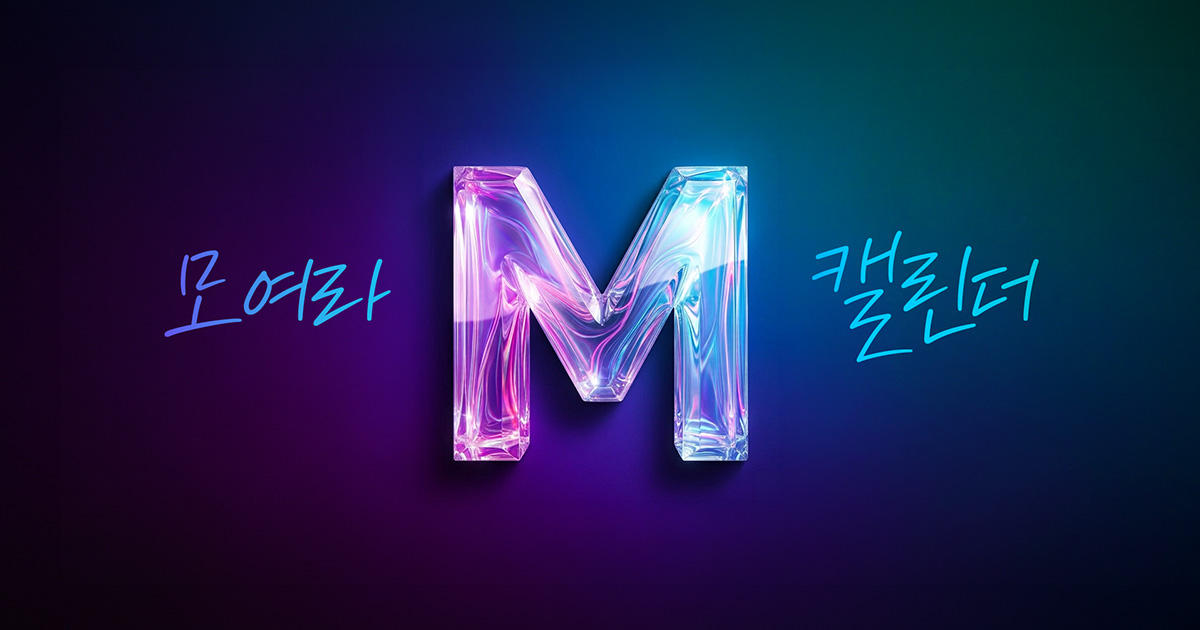
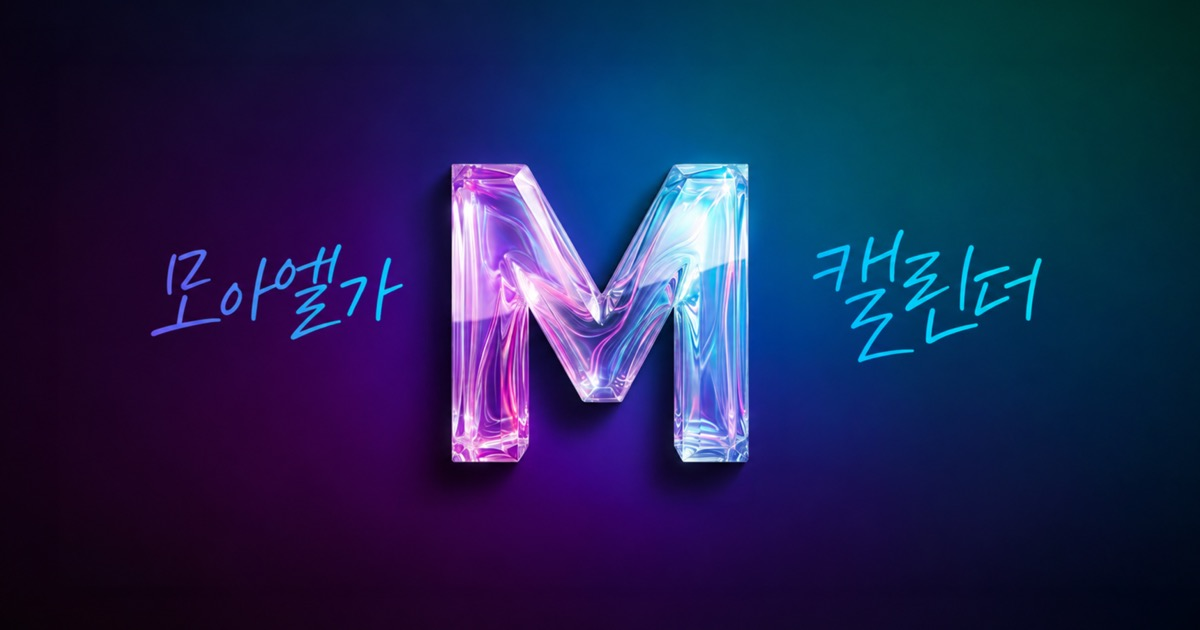
deploy: production build from 8e30e2f5bb7bdfd8403e604760e13b4e904e961d

Changed region(s): [[0.37, 0.2413, 0.6475, 0.754], [0.1233, 0.3921, 0.3392, 0.5429], [0.6783, 0.3619, 0.8633, 0.573]]

diff --git a/share/jhair/memo/index.html b/share/jhair/memo/index.html
@@ -10,14 +10,14 @@
   <meta property="og:site_name" content="모아엘가 캘린더">
   <meta property="og:title" content="💈 제이헤어 메모">
   <meta property="og:description" content="💈 제이헤어 메모를 확인해보세요.">
-  <meta property="og:image" content="https://pyw31337.github.io/calendar/og-thumb-v2.jpg?v=20260917">
+  <meta property="og:image" content="https://pyw31337.github.io/calendar/og-thumb-v3.jpg?v=20261023">
   <meta property="og:image:width" content="1200">
   <meta property="og:image:height" content="630">
   <meta property="og:url" content="https://pyw31337.github.io/calendar/share/jhair/memo/">
   <meta name="twitter:card" content="summary_large_image">
   <meta name="twitter:title" content="💈 제이헤어 메모">
   <meta name="twitter:description" content="💈 제이헤어 메모를 확인해보세요.">
-  <meta name="twitter:image" content="https://pyw31337.github.io/calendar/og-thumb-v2.jpg?v=20260917">
+  <meta name="twitter:image" content="https://pyw31337.github.io/calendar/og-thumb-v3.jpg?v=20261023">
   <script>
     var u = "https://pyw31337.github.io/calendar/?id=jhair&view=memo"; if (window.location.search) u += (u.indexOf('?') === -1 ? '?' : '&') + window.location.search.slice(1); window.location.replace(u);
   </script>

diff --git a/share/cw/memo/index.html b/share/cw/memo/index.html
@@ -10,14 +10,14 @@
   <meta property="og:site_name" content="모아엘가 캘린더">
   <meta property="og:title" content="🍺 모아엘가 메모">
   <meta property="og:description" content="🍺 모아엘가 메모를 확인해보세요.">
-  <meta property="og:image" content="https://pyw31337.github.io/calendar/og-thumb-v2.jpg?v=20260917">
+  <meta property="og:image" content="https://pyw31337.github.io/calendar/og-thumb-v3.jpg?v=20261023">
   <meta property="og:image:width" content="1200">
   <meta property="og:image:height" content="630">
   <meta property="og:url" content="https://pyw31337.github.io/calendar/share/cw/memo/">
   <meta name="twitter:card" content="summary_large_image">
   <meta name="twitter:title" content="🍺 모아엘가 메모">
   <meta name="twitter:description" content="🍺 모아엘가 메모를 확인해보세요.">
-  <meta name="twitter:image" content="https://pyw31337.github.io/calendar/og-thumb-v2.jpg?v=20260917">
+  <meta name="twitter:image" content="https://pyw31337.github.io/calendar/og-thumb-v3.jpg?v=20261023">
   <script>
     var u = "https://pyw31337.github.io/calendar/?id=cw&view=memo"; if (window.location.search) u += (u.indexOf('?') === -1 ? '?' : '&') + window.location.search.slice(1); window.location.replace(u);
   </script>

diff --git a/share/kkot/memo/index.html b/share/kkot/memo/index.html
@@ -10,14 +10,14 @@
   <meta property="og:site_name" content="모아엘가 캘린더">
   <meta property="og:title" content="🌸 꽃잎반 메모">
   <meta property="og:description" content="🌸 꽃잎반 메모를 확인해보세요.">
-  <meta property="og:image" content="https://pyw31337.github.io/calendar/og-thumb-v2.jpg?v=20260917">
+  <meta property="og:image" content="https://pyw31337.github.io/calendar/og-thumb-v3.jpg?v=20261023">
   <meta property="og:image:width" content="1200">
   <meta property="og:image:height" content="630">
   <meta property="og:url" content="https://pyw31337.github.io/calendar/share/kkot/memo/">
   <meta name="twitter:card" content="summary_large_image">
   <meta name="twitter:title" content="🌸 꽃잎반 메모">
   <meta name="twitter:description" content="🌸 꽃잎반 메모를 확인해보세요.">
-  <meta name="twitter:image" content="https://pyw31337.github.io/calendar/og-thumb-v2.jpg?v=20260917">
+  <meta name="twitter:image" content="https://pyw31337.github.io/calendar/og-thumb-v3.jpg?v=20261023">
   <script>
     var u = "https://pyw31337.github.io/calendar/?id=kkot&view=memo"; if (window.location.search) u += (u.indexOf('?') === -1 ? '?' : '&') + window.location.search.slice(1); window.location.replace(u);
   </script>

diff --git a/share/jhair/index.html b/share/jhair/index.html
@@ -10,14 +10,14 @@
   <meta property="og:site_name" content="모아엘가 캘린더">
   <meta property="og:title" content="💈 제이헤어 캘린더">
   <meta property="og:description" content="💈 제이헤어 캘린더">
-  <meta property="og:image" content="https://pyw31337.github.io/calendar/og-thumb-v2.jpg?v=20260917">
+  <meta property="og:image" content="https://pyw31337.github.io/calendar/og-thumb-v3.jpg?v=20261023">
   <meta property="og:image:width" content="1200">
   <meta property="og:image:height" content="630">
   <meta property="og:url" content="https://pyw31337.github.io/calendar/share/jhair/">
   <meta name="twitter:card" content="summary_large_image">
   <meta name="twitter:title" content="💈 제이헤어 캘린더">
   <meta name="twitter:description" content="💈 제이헤어 캘린더">
-  <meta name="twitter:image" content="https://pyw31337.github.io/calendar/og-thumb-v2.jpg?v=20260917">
+  <meta name="twitter:image" content="https://pyw31337.github.io/calendar/og-thumb-v3.jpg?v=20261023">
   <script>
     var u = "https://pyw31337.github.io/calendar/?id=jhair"; if (window.location.search) u += (u.indexOf('?') === -1 ? '?' : '&') + window.location.search.slice(1); window.location.replace(u);
   </script>

diff --git a/share/cw/index.html b/share/cw/index.html
@@ -10,14 +10,14 @@
   <meta property="og:site_name" content="모아엘가 캘린더">
   <meta property="og:title" content="🍺 모아엘가 캘린더">
   <meta property="og:description" content="🍺 모아엘가 캘린더">
-  <meta property="og:image" content="https://pyw31337.github.io/calendar/og-thumb-v2.jpg?v=20260917">
+  <meta property="og:image" content="https://pyw31337.github.io/calendar/og-thumb-v3.jpg?v=20261023">
   <meta property="og:image:width" content="1200">
   <meta property="og:image:height" content="630">
   <meta property="og:url" content="https://pyw31337.github.io/calendar/share/cw/">
   <meta name="twitter:card" content="summary_large_image">
   <meta name="twitter:title" content="🍺 모아엘가 캘린더">
   <meta name="twitter:description" content="🍺 모아엘가 캘린더">
-  <meta name="twitter:image" content="https://pyw31337.github.io/calendar/og-thumb-v2.jpg?v=20260917">
+  <meta name="twitter:image" content="https://pyw31337.github.io/calendar/og-thumb-v3.jpg?v=20261023">
   <script>
     var u = "https://pyw31337.github.io/calendar/?id=cw"; if (window.location.search) u += (u.indexOf('?') === -1 ? '?' : '&') + window.location.search.slice(1); window.location.replace(u);
   </script>

diff --git a/share/jhair/places/index.html b/share/jhair/places/index.html
@@ -10,14 +10,14 @@
   <meta property="og:site_name" content="모아엘가 캘린더">
   <meta property="og:title" content="💈 제이헤어 장소">
   <meta property="og:description" content="💈 제이헤어에 등록된 장소를 지도에서 확인해보세요.">
-  <meta property="og:image" content="https://pyw31337.github.io/calendar/og-thumb-v2.jpg?v=20260917">
+  <meta property="og:image" content="https://pyw31337.github.io/calendar/og-thumb-v3.jpg?v=20261023">
   <meta property="og:image:width" content="1200">
   <meta property="og:image:height" content="630">
   <meta property="og:url" content="https://pyw31337.github.io/calendar/share/jhair/places/">
   <meta name="twitter:card" content="summary_large_image">
   <meta name="twitter:title" content="💈 제이헤어 장소">
   <meta name="twitter:description" content="💈 제이헤어에 등록된 장소를 지도에서 확인해보세요.">
-  <meta name="twitter:image" content="https://pyw31337.github.io/calendar/og-thumb-v2.jpg?v=20260917">
+  <meta name="twitter:image" content="https://pyw31337.github.io/calendar/og-thumb-v3.jpg?v=20261023">
   <script>
     window.location.replace("https://pyw31337.github.io/calendar/?id=jhair&view=places");
   </script>

diff --git a/share/jhair/gallery/index.html b/share/jhair/gallery/index.html
@@ -10,14 +10,14 @@
   <meta property="og:site_name" content="모아엘가 캘린더">
   <meta property="og:title" content="💈 제이헤어 갤러리">
   <meta property="og:description" content="💈 제이헤어 사진과 링크 갤러리를 확인해보세요.">
-  <meta property="og:image" content="https://pyw31337.github.io/calendar/og-thumb-v2.jpg?v=20260917">
+  <meta property="og:image" content="https://pyw31337.github.io/calendar/og-thumb-v3.jpg?v=20261023">
   <meta property="og:image:width" content="1200">
   <meta property="og:image:height" content="630">
   <meta property="og:url" content="https://pyw31337.github.io/calendar/share/jhair/gallery/">
   <meta name="twitter:card" content="summary_large_image">
   <meta name="twitter:title" content="💈 제이헤어 갤러리">
   <meta name="twitter:description" content="💈 제이헤어 사진과 링크 갤러리를 확인해보세요.">
-  <meta name="twitter:image" content="https://pyw31337.github.io/calendar/og-thumb-v2.jpg?v=20260917">
+  <meta name="twitter:image" content="https://pyw31337.github.io/calendar/og-thumb-v3.jpg?v=20261023">
   <script>
     window.location.replace("https://pyw31337.github.io/calendar/?id=jhair&view=gallery");
   </script>

diff --git a/share/kkot/index.html b/share/kkot/index.html
@@ -10,14 +10,14 @@
   <meta property="og:site_name" content="모아엘가 캘린더">
   <meta property="og:title" content="🌸 꽃잎반 캘린더">
   <meta property="og:description" content="🌸 꽃잎반 캘린더">
-  <meta property="og:image" content="https://pyw31337.github.io/calendar/og-thumb-v2.jpg?v=20260917">
+  <meta property="og:image" content="https://pyw31337.github.io/calendar/og-thumb-v3.jpg?v=20261023">
   <meta property="og:image:width" content="1200">
   <meta property="og:image:height" content="630">
   <meta property="og:url" content="https://pyw31337.github.io/calendar/share/kkot/">
   <meta name="twitter:card" content="summary_large_image">
   <meta name="twitter:title" content="🌸 꽃잎반 캘린더">
   <meta name="twitter:description" content="🌸 꽃잎반 캘린더">
-  <meta name="twitter:image" content="https://pyw31337.github.io/calendar/og-thumb-v2.jpg?v=20260917">
+  <meta name="twitter:image" content="https://pyw31337.github.io/calendar/og-thumb-v3.jpg?v=20261023">
   <script>
     var u = "https://pyw31337.github.io/calendar/?id=kkot"; if (window.location.search) u += (u.indexOf('?') === -1 ? '?' : '&') + window.location.search.slice(1); window.location.replace(u);
   </script>

diff --git a/share/cw/places/index.html b/share/cw/places/index.html
@@ -10,14 +10,14 @@
   <meta property="og:site_name" content="모아엘가 캘린더">
   <meta property="og:title" content="🍺 모아엘가 장소">
   <meta property="og:description" content="🍺 모아엘가에 등록된 장소를 지도에서 확인해보세요.">
-  <meta property="og:image" content="https://pyw31337.github.io/calendar/og-thumb-v2.jpg?v=20260917">
+  <meta property="og:image" content="https://pyw31337.github.io/calendar/og-thumb-v3.jpg?v=20261023">
   <meta property="og:image:width" content="1200">
   <meta property="og:image:height" content="630">
   <meta property="og:url" content="https://pyw31337.github.io/calendar/share/cw/places/">
   <meta name="twitter:card" content="summary_large_image">
   <meta name="twitter:title" content="🍺 모아엘가 장소">
   <meta name="twitter:description" content="🍺 모아엘가에 등록된 장소를 지도에서 확인해보세요.">
-  <meta name="twitter:image" content="https://pyw31337.github.io/calendar/og-thumb-v2.jpg?v=20260917">
+  <meta name="twitter:image" content="https://pyw31337.github.io/calendar/og-thumb-v3.jpg?v=20261023">
   <script>
     window.location.replace("https://pyw31337.github.io/calendar/?id=cw&view=places");
   </script>

diff --git a/share/cw/gallery/index.html b/share/cw/gallery/index.html
@@ -10,14 +10,14 @@
   <meta property="og:site_name" content="모아엘가 캘린더">
   <meta property="og:title" content="🍺 모아엘가 갤러리">
   <meta property="og:description" content="🍺 모아엘가 사진과 링크 갤러리를 확인해보세요.">
-  <meta property="og:image" content="https://pyw31337.github.io/calendar/og-thumb-v2.jpg?v=20260917">
+  <meta property="og:image" content="https://pyw31337.github.io/calendar/og-thumb-v3.jpg?v=20261023">
   <meta property="og:image:width" content="1200">
   <meta property="og:image:height" content="630">
   <meta property="og:url" content="https://pyw31337.github.io/calendar/share/cw/gallery/">
   <meta name="twitter:card" content="summary_large_image">
   <meta name="twitter:title" content="🍺 모아엘가 갤러리">
   <meta name="twitter:description" content="🍺 모아엘가 사진과 링크 갤러리를 확인해보세요.">
-  <meta name="twitter:image" content="https://pyw31337.github.io/calendar/og-thumb-v2.jpg?v=20260917">
+  <meta name="twitter:image" content="https://pyw31337.github.io/calendar/og-thumb-v3.jpg?v=20261023">
   <script>
     window.location.replace("https://pyw31337.github.io/calendar/?id=cw&view=gallery");
   </script>

diff --git a/share/kkot/places/index.html b/share/kkot/places/index.html
@@ -10,14 +10,14 @@
   <meta property="og:site_name" content="모아엘가 캘린더">
   <meta property="og:title" content="🌸 꽃잎반 장소">
   <meta property="og:description" content="🌸 꽃잎반에 등록된 장소를 지도에서 확인해보세요.">
-  <meta property="og:image" content="https://pyw31337.github.io/calendar/og-thumb-v2.jpg?v=20260917">
+  <meta property="og:image" content="https://pyw31337.github.io/calendar/og-thumb-v3.jpg?v=20261023">
   <meta property="og:image:width" content="1200">
   <meta property="og:image:height" content="630">
   <meta property="og:url" content="https://pyw31337.github.io/calendar/share/kkot/places/">
   <meta name="twitter:card" content="summary_large_image">
   <meta name="twitter:title" content="🌸 꽃잎반 장소">
   <meta name="twitter:description" content="🌸 꽃잎반에 등록된 장소를 지도에서 확인해보세요.">
-  <meta name="twitter:image" content="https://pyw31337.github.io/calendar/og-thumb-v2.jpg?v=20260917">
+  <meta name="twitter:image" content="https://pyw31337.github.io/calendar/og-thumb-v3.jpg?v=20261023">
   <script>
     window.location.replace("https://pyw31337.github.io/calendar/?id=kkot&view=places");
   </script>

diff --git a/share/jhair/chat/index.html b/share/jhair/chat/index.html
@@ -10,14 +10,14 @@
   <meta property="og:site_name" content="모아엘가 캘린더">
   <meta property="og:title" content="💈 제이헤어 채팅방">
   <meta property="og:description" content="💈 제이헤어 채팅방에서 대화를 확인해보세요.">
-  <meta property="og:image" content="https://pyw31337.github.io/calendar/og-thumb-v2.jpg?v=20260917">
+  <meta property="og:image" content="https://pyw31337.github.io/calendar/og-thumb-v3.jpg?v=20261023">
   <meta property="og:image:width" content="1200">
   <meta property="og:image:height" content="630">
   <meta property="og:url" content="https://pyw31337.github.io/calendar/share/jhair/chat/">
   <meta name="twitter:card" content="summary_large_image">
   <meta name="twitter:title" content="💈 제이헤어 채팅방">
   <meta name="twitter:description" content="💈 제이헤어 채팅방에서 대화를 확인해보세요.">
-  <meta name="twitter:image" content="https://pyw31337.github.io/calendar/og-thumb-v2.jpg?v=20260917">
+  <meta name="twitter:image" content="https://pyw31337.github.io/calendar/og-thumb-v3.jpg?v=20261023">
   <script>
     window.location.replace("https://pyw31337.github.io/calendar/?id=jhair&view=chat");
   </script>
